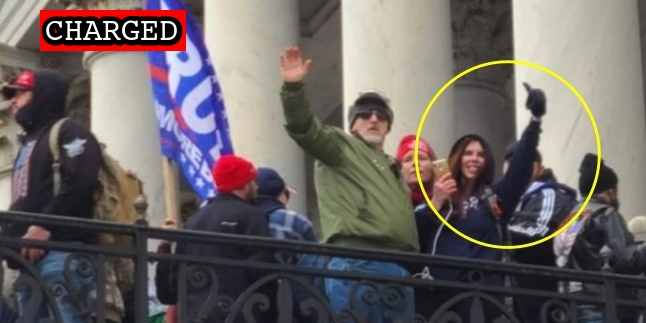
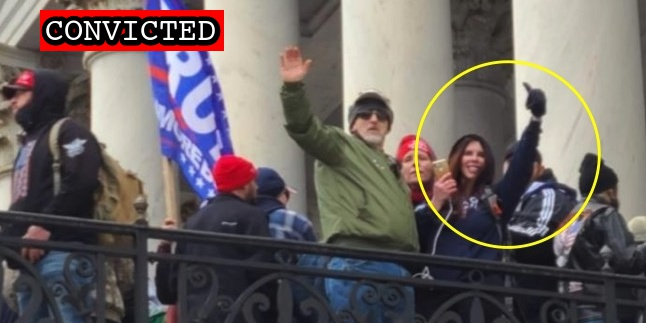
Latest import

Changed region(s): [[0.0929, 0.031, 0.3715, 0.1858]]

diff --git a/docs/_suspects/samuel-fisher.md b/docs/_suspects/samuel-fisher.md
@@ -4,18 +4,20 @@ lastName: Fisher
 hashtag: SamuelFisher
 aka: Brad Holiday
 residence: New York
-status: Charged
+status: Convicted
 date: 2021-01-20
 charged: 2021-01-20
 indicted:
-convicted: 
-sentenced: 
-dismissed: 
+convicted: 2022-07-06
+acquitted:
+sentenced:
+dismissed:
 deceased:
-plea_hearing:
+plea_hearing: 2022-07-06
+trial_date:
 sentencing:
 age: 35
-occupation: 'Pickup Artist'
+occupation: "Pickup Artist"
 affiliations:
 jurisdiction: Federal
 image: /images/preview/081.jpg
@@ -25,7 +27,7 @@ courtroom:
 courthouse:
 raid: samuel-fisher.jpg
 perpwalk: samuel-fisher.jpg
-quote: 'It’s time to bring the pain upon them.'
+quote: "It’s time to bring the pain upon them."
 title: Samuel Fisher  charged on January 20, 2021
 description: Click for latest case details. Suspects innocent until proven guilty.
 author: seditiontrack
@@ -34,8 +36,13 @@ published: true
 caseNumber: 1:21-cr-142
 videos:
 charges:
+  - code: 18 USC § 1752(a)(1)
+    title: Entering a restricted building or grounds
+    url: https://www.law.cornell.edu/uscode/text/18/1752
+    felony: false
 sentence:
 ---
+
 - [News Report](https://www.thedailybeast.com/samuel-fisher-conspiracy-addled-nyc-pickup-artist-arrested-in-capitol-riots)
 - [Perp Walk](https://worldnewsera.com/news/coronavirus/2-more-local-arrests-connected-to-insurrection-at-u-s-capitol/)
 - [Self Incrimination](https://bradholiday.com/?p=2938)
@@ -43,3 +50,5 @@ sentence:
 - [Complaint](https://www.justice.gov/opa/page/file/1358941/download)
 - [Arrest at Gunpoint (Video)](https://nypost.com/2021/01/20/fbi-agents-swarm-heavily-armed-nyc-man-from-capitol-riot/)
 - [Information](https://www.justice.gov/usao-dc/case-multi-defendant/file/1377701/download)
+- [Plea Agreement](https://www.justice.gov/usao-dc/case-multi-defendant/file/1517956/download)
+- [Statement of Offense](https://www.justice.gov/usao-dc/case-multi-defendant/file/1517961/download)

diff --git a/docs/_suspects/ryan-suleski.md b/docs/_suspects/ryan-suleski.md
@@ -4,15 +4,17 @@ lastName: Suleski
 hashtag: RyanSuleski
 aka:
 residence: Virginia
-status: Indicted
+status: Convicted
 date: 2021-03-05
 charged: 2021-03-05
 indicted: 2021-05-26
-convicted:
+convicted: 2022-07-06
+acquitted:
 sentenced:
 dismissed:
 deceased:
-plea_hearing:
+plea_hearing: 2022-07-06
+trial_date:
 sentencing:
 age: 37
 occupation:
@@ -34,9 +36,21 @@ published: true
 caseNumber: 1:21-cr-376
 videos:
 charges:
+  - code: 18 USC § 1752(a)(1)
+    title: Entering a restricted building or grounds
+    url: https://www.law.cornell.edu/uscode/text/18/1752
+    felony: false
+  - code: 18 USC § 641
+    title: Theft of Government Property
+    url: https://www.law.cornell.edu/uscode/text/18/641
+    felony: false
 sentence:
 ---
+
 - [News Report](https://twitter.com/ryanjreilly/status/1377307092478873601)
 - [Statement of Facts](https://www.justice.gov/usao-dc/case-multi-defendant/file/1393766/download)
 - [Complaint](https://extremism.gwu.edu/sites/g/files/zaxdzs2191/f/)
 - [Indictment](https://www.justice.gov/usao-dc/case-multi-defendant/file/1415001/download)
+- [Plea Agreement](https://www.justice.gov/usao-dc/case-multi-defendant/file/1517766/download)
+- [Statement of Offense](https://www.justice.gov/usao-dc/case-multi-defendant/file/1517771/download)
+- [Information](https://www.justice.gov/usao-dc/case-multi-defendant/file/1517776/download)

diff --git a/docs/_suspects/jamie-ferguson.md b/docs/_suspects/jamie-ferguson.md
@@ -4,11 +4,11 @@ lastName: Ferguson
 hashtag:
 aka:
 residence: Virginia
-status: Charged
+status: Convicted
 date: 2022-05-10
 charged: 2022-05-10
 indicted:
-convicted:
+convicted: 2022-07-06
 acquitted:
 sentenced:
 dismissed:
@@ -36,8 +36,14 @@ published: true
 caseNumber:
 videos:
 charges:
+- code: 40 USC § 5104(e)(2)(G)
+  title: Parading, demonstrating or picketing in a Capitol building
+  url: https://www.law.cornell.edu/uscode/text/40/5104
+  felony: false
 sentence:
 ---
-
 - [News Report](https://richmond.com/news/state-and-regional/virginia-woman-charged-in-jan-6-riots-at-u-s-capitol/article_f7ba5140-d0b3-54ac-88c4-3eb7b161a956.html)
 - [Statement of Facts](https://www.justice.gov/usao-dc/case-multi-defendant/file/1506801/download)
+- [Information](https://www.justice.gov/usao-dc/case-multi-defendant/file/1517751/download)
+- [Plea Agreement](https://www.justice.gov/usao-dc/case-multi-defendant/file/1517756/download)
+- [Statement of Offense](https://www.justice.gov/usao-dc/case-multi-defendant/file/1517761/download)

diff --git a/docs/_suspects/nicholas-rodean.md b/docs/_suspects/nicholas-rodean.md
@@ -9,6 +9,7 @@ date: 2021-01-13
 charged: 2021-01-13
 indicted: 2021-01-29
 convicted:
+acquitted:
 sentenced:
 dismissed:
 deceased:
@@ -37,10 +38,9 @@ videos:
 charges:
 sentence:
 ---
-
 - [News Report](https://baltimore.cbslocal.com/2021/01/13/maryland-man-nicholas-rodean-who-went-into-us-capitol-during-riots-wearing-work-badge-arrested-on-federal-charges/)
 - [DOJ Press Release](https://www.justice.gov/usao-dc/pr/seven-charged-federal-court-following-events-united-capitol)
 - [Statement of Facts](https://www.justice.gov/usao-dc/press-release/file/1353226/download)
 - [Complaint](https://www.justice.gov/usao-dc/press-release/file/1353221/download)
-- [Indictment](https://www.justice.gov/usao-dc/case-multi-defendant/file/1378286/download)
+- [Indictment](https://www.justice.gov/usao-dc/case-multi-defendant/file/1517561/download)
 - [Information](https://www.justice.gov/usao-dc/case-multi-defendant/file/1365231/download)
